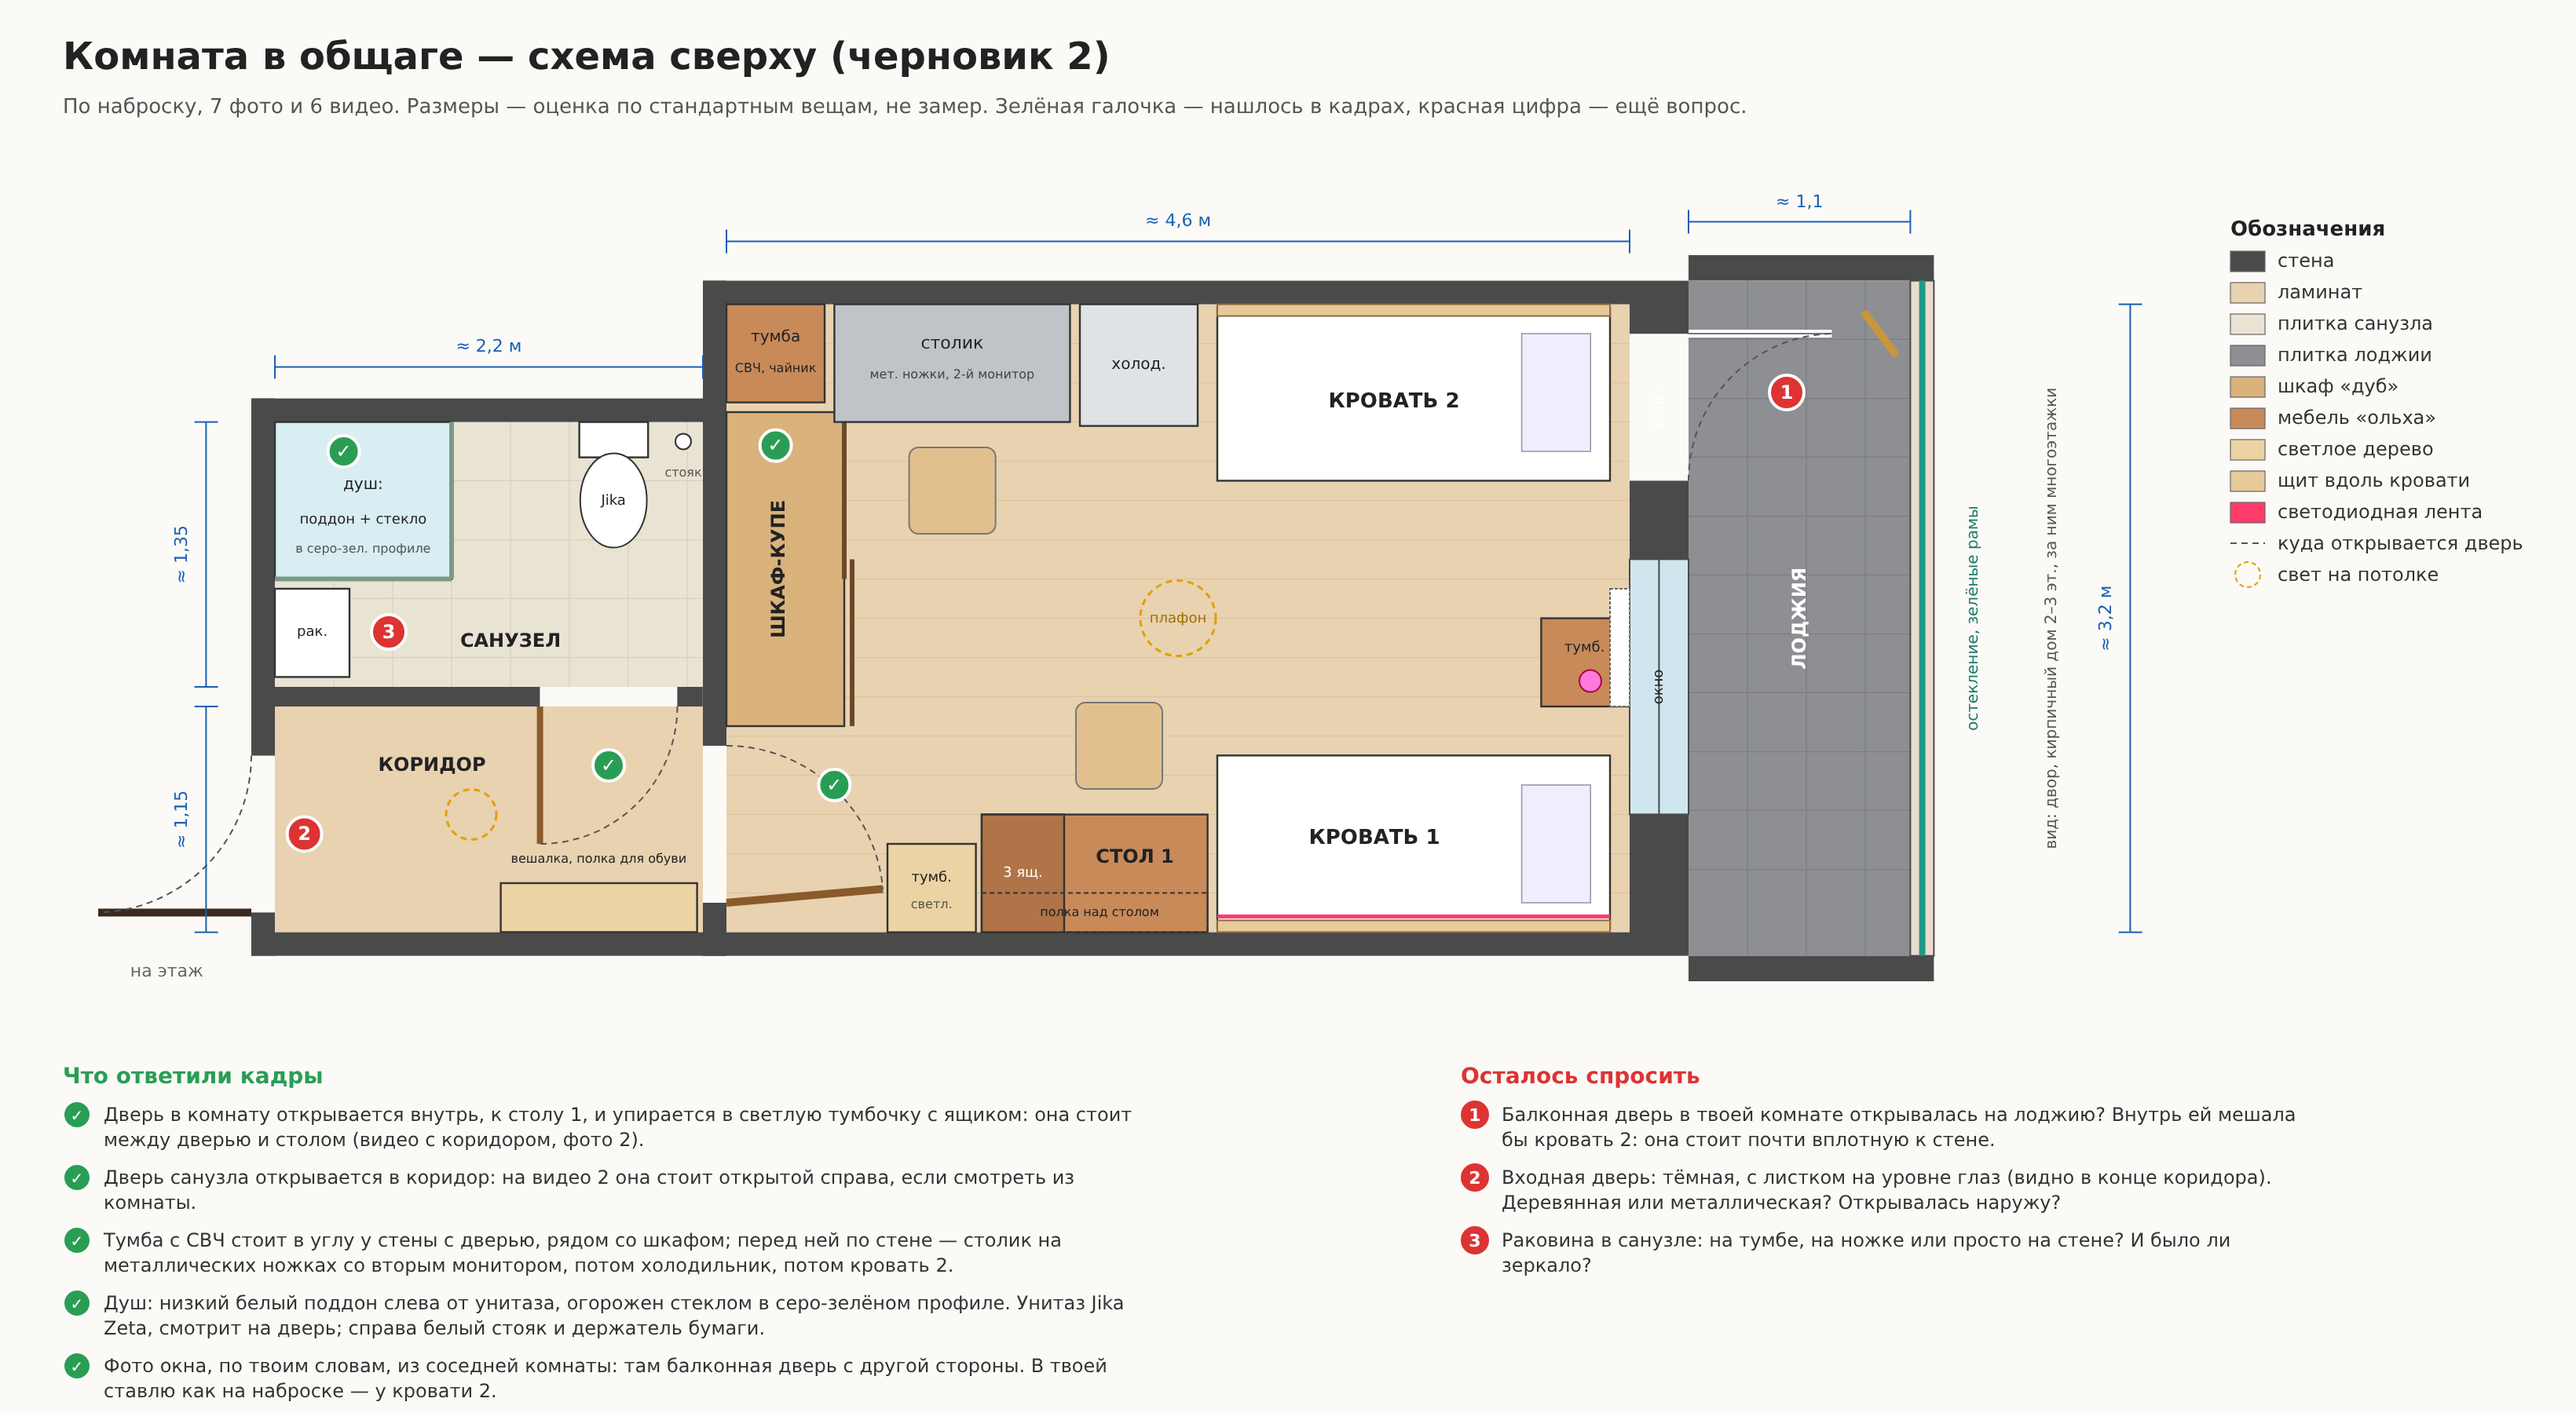
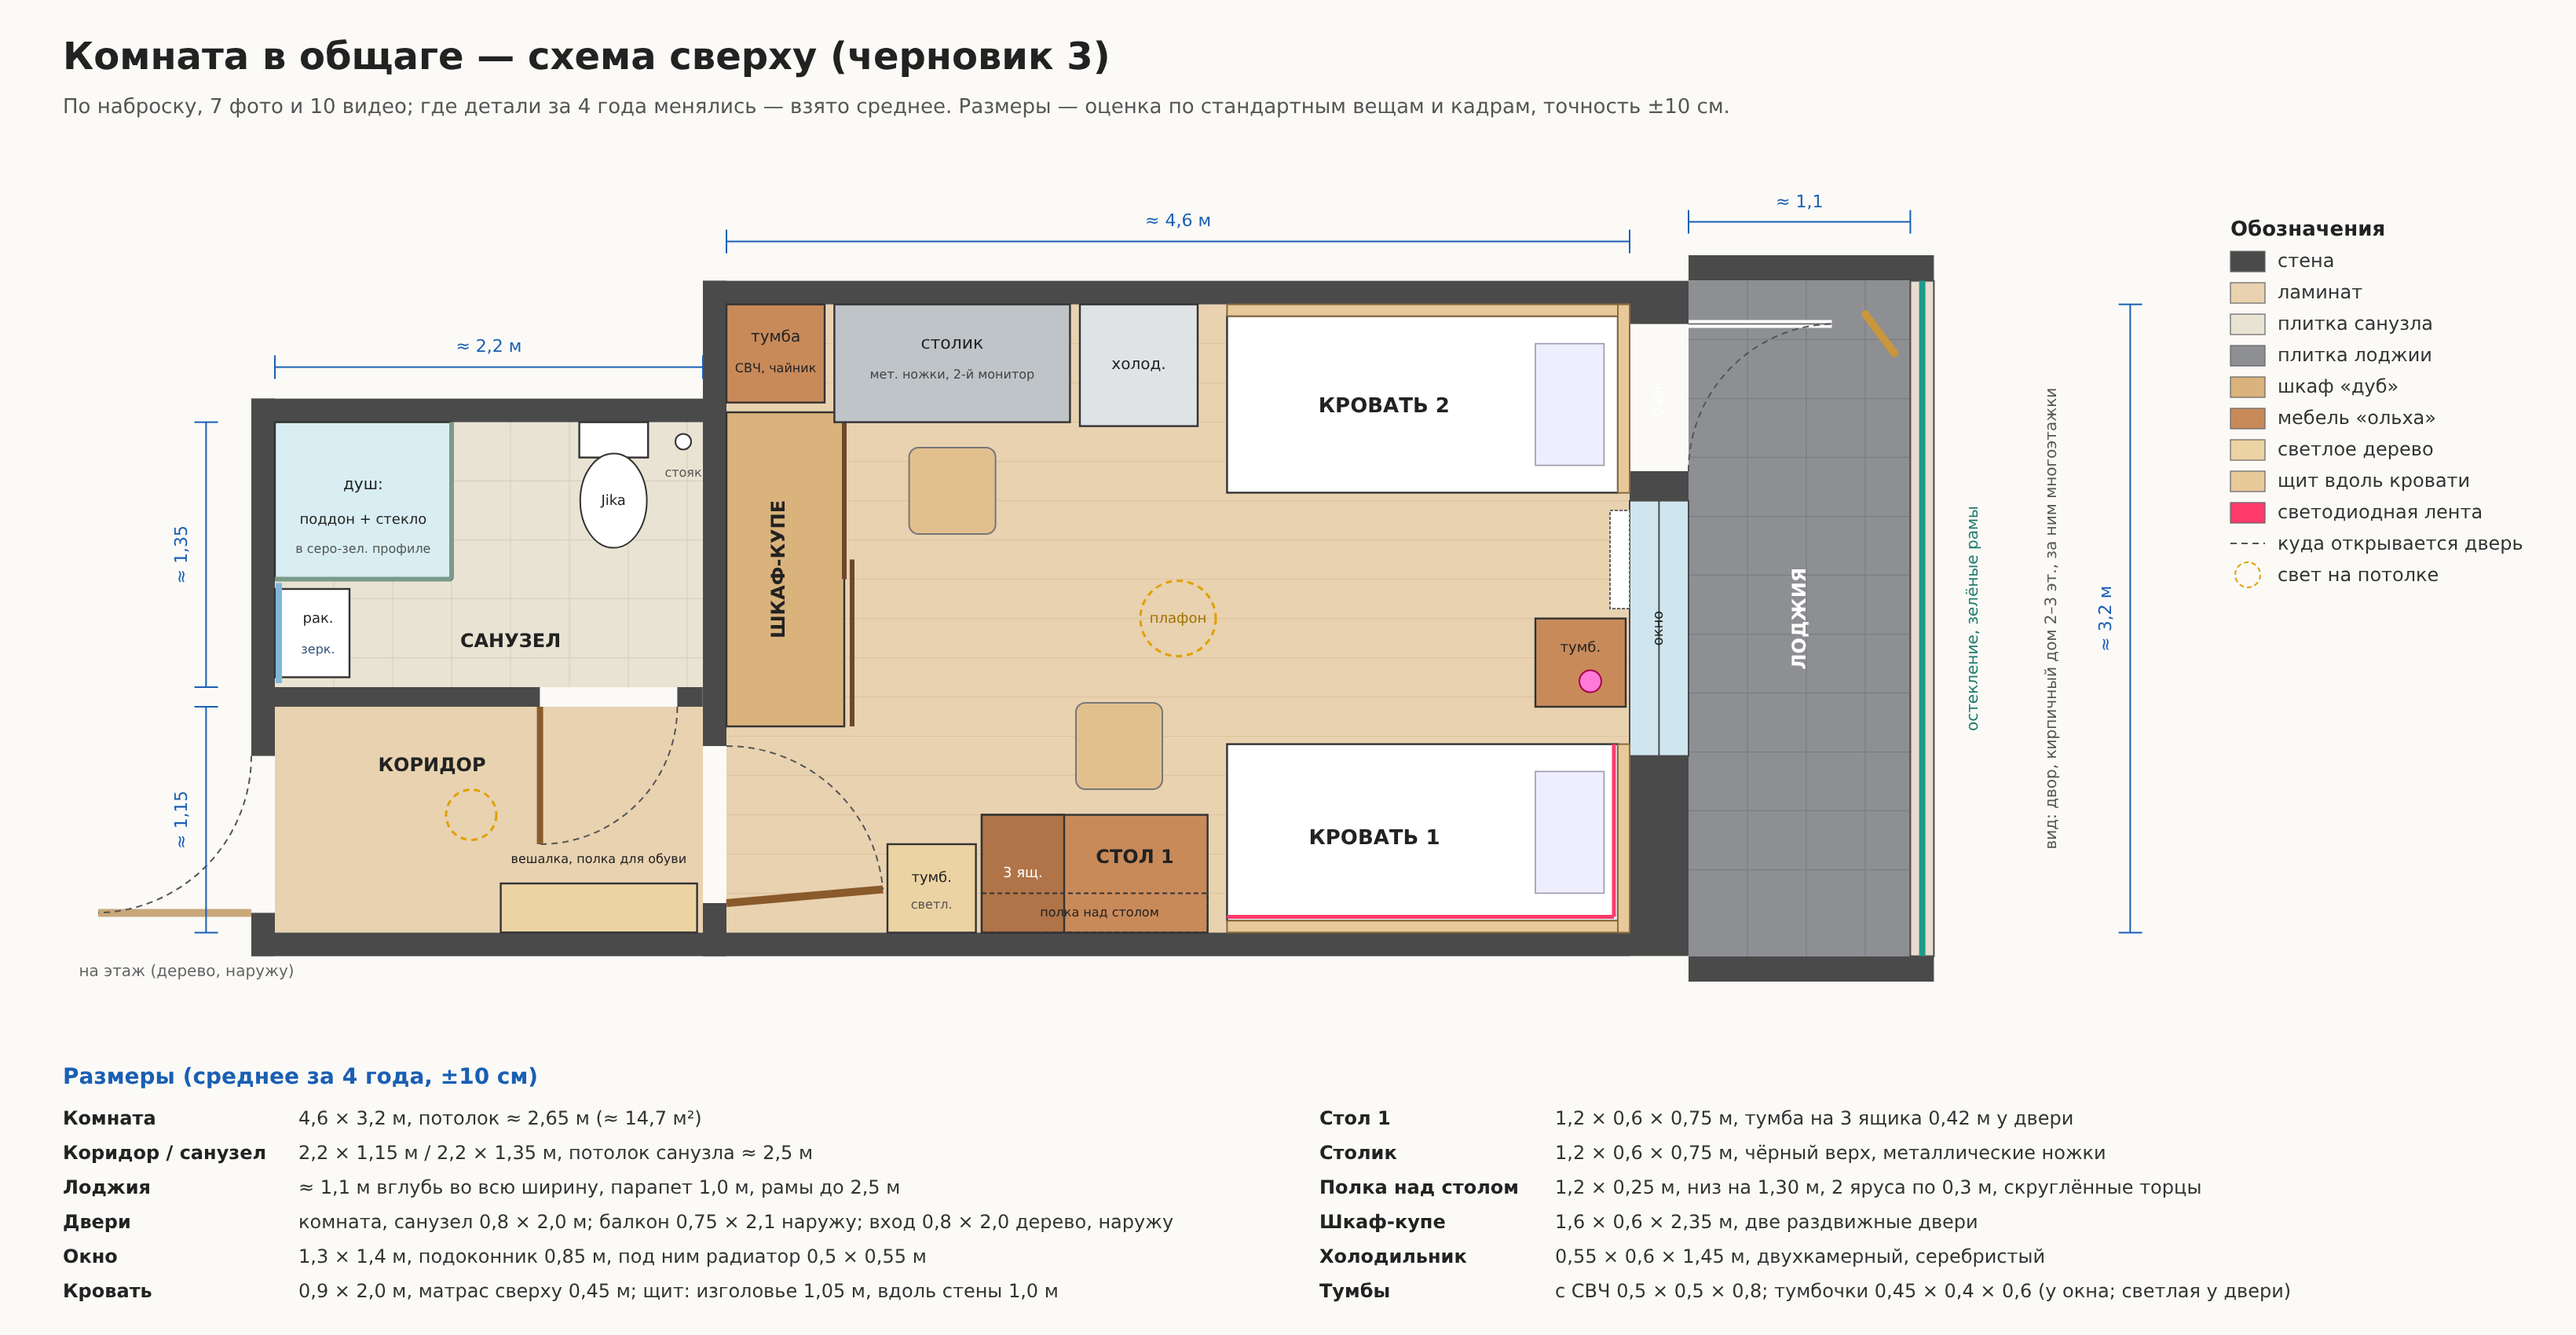
Общага: схема — черновик 3 (кровати головой к окну, Г-образный щит, двери, таблица размеров)
Claude-Session: https://claude.ai/code/session_01AohsHdiZiEWt7jCP3o7Hhr

diff --git a/Игры/Общага/ПЛАН.md b/Игры/Общага/ПЛАН.md
@@ -46,8 +46,27 @@
 - Фото окна и лоджии из второй пачки — из соседней комнаты (там балконная дверь с другой стороны).
   В комнате автора она как на наброске — у кровати 2.
 
-Осталось спросить (на схеме красные цифры): открывалась ли балконная дверь на лоджию, какая входная дверь,
-какая раковина и было ли зеркало.
+### Черновик 3 (14.11): ответы автора + видео 7–10
+
+Ответы автора: входная дверь деревянная, открывается наружу; раковина на стене, над ней зеркало; балконная
+дверь открывается на лоджию (внутрь не дала бы кровать). Автор жил здесь 4 года, детали от кадра к кадру
+менялись — **берём среднее**.
+
+- **Кровати стоят головой к окну**, и щит у них **Г-образный**: высокое изголовье (~1,05 м) у стены окна
+  плюс щит вдоль длинной стены (~1,0 м). Это видно на В9 (день: угол, где щиты сходятся) и В8 (ночь: лента
+  по верху изголовья). Поэтому на одних кадрах щит выглядел спинкой, а на других — панелью вдоль стены.
+  Изголовье кровати 2 стоит прямо перед балконной дверью — отсюда «дверь наружу».
+- Тумбочка между изголовьями, радиатор под окном ближе к балконной двери (В8 ночью: свет фонаря в окне над радиатором).
+- Шторы в комнате автора — **серо-зелёные (бирюзовые)** (В8, В9); рыжие — на фото соседней комнаты.
+- Входная дверь светлая «под дерево», у неё красный коврик; коридор чуть шире двери (В10).
+- Столик у холодильника — чёрный верх на металлических ножках; холодильник серебристый, весь в магнитах (В10).
+- В7 (гирлянда, полки-коробки над столом) — скорее другая комната или другой год; взят только для пропорций щита.
+
+**Размеры — в таблице на схеме** (`схема/план.png`), точность ±10 см: комната 4,6 × 3,2 м, потолок ≈ 2,65 м,
+коридор 2,2 × 1,15 м, санузел 2,2 × 1,35 м, лоджия ≈ 1,1 м.
+
+Открытых вопросов по планировке нет. Следующий шаг по решению автора — модели мебели в Blender (скриптами,
+в реальных размерах) и сцена в Godot.
 
 Делается так же, как Нора (`Игры/Нора/`): отдельный проект Godot 4.7, сцена собирается кодом
 (`build.gd`), Claude смотрит её снимками из облака (`Инструменты/снимок.sh`), автор ходит и проверяет на ПК.
